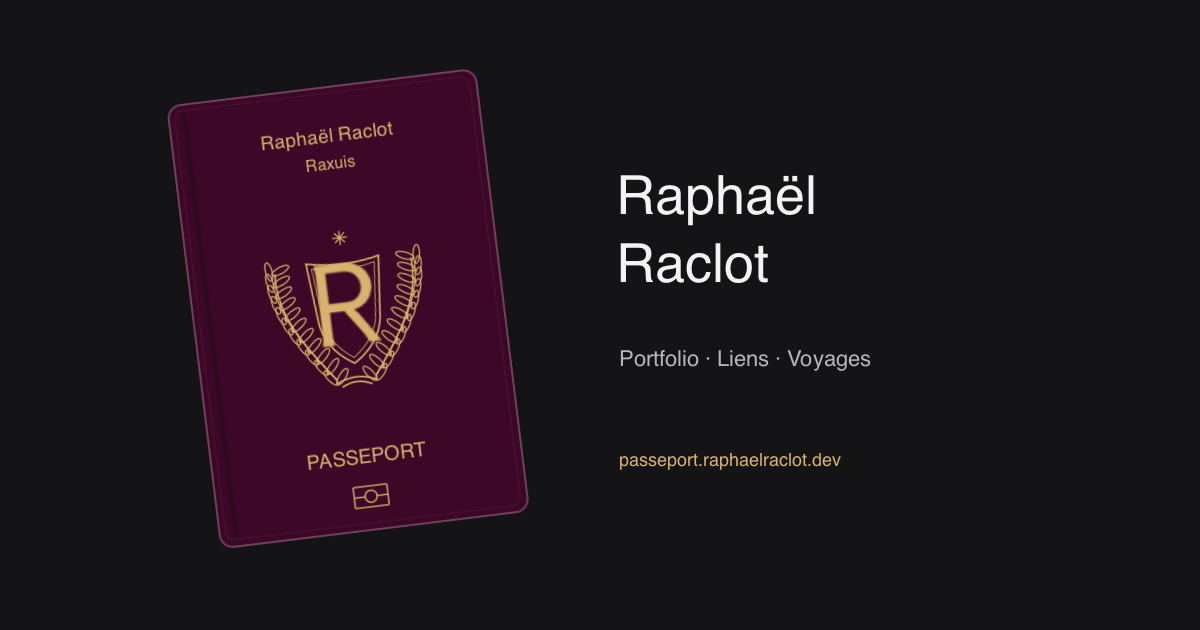
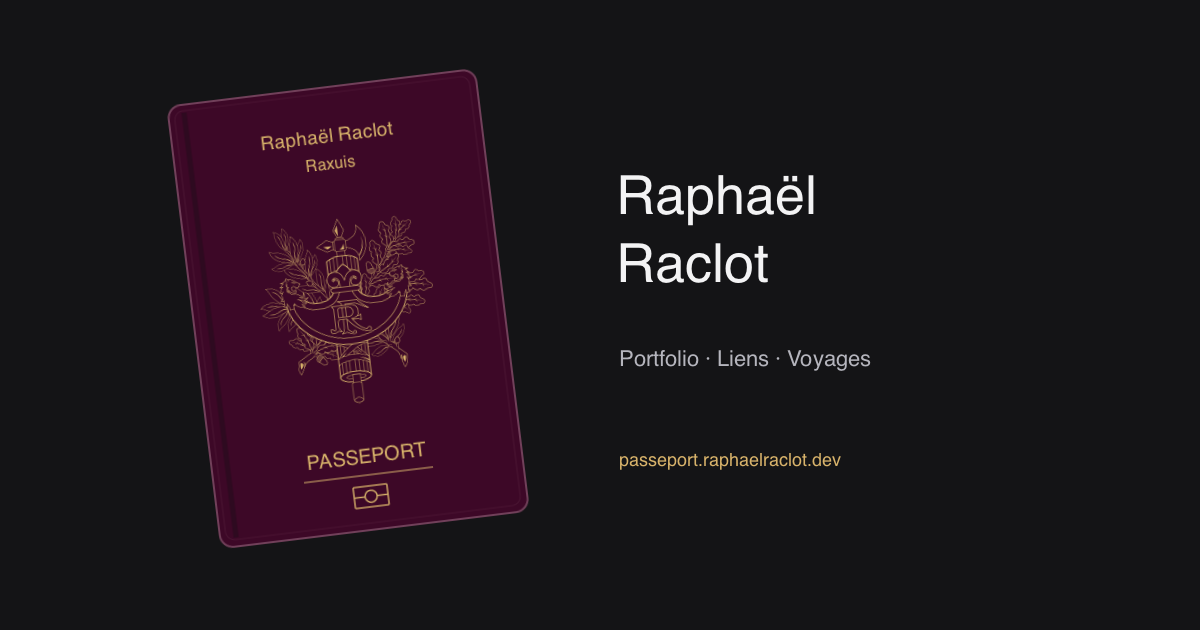
design: replace personal cover monogram with French passport emblem

Changed region(s): [[0.2158, 0.3317, 0.37, 0.6333], [0.2467, 0.754, 0.3083, 0.7841], [0.3083, 0.7238, 0.3392, 0.754]]

diff --git a/src/components/passport/passport-textures.ts b/src/components/passport/passport-textures.ts
@@ -388,7 +388,7 @@ export async function loadPassportTextures(
     c.fillStyle = i % 2 ? "#d6a8af0b" : "#08000a1c";
     c.fillRect(x, y, 1.5, 1.5);
   }
-  // A separate alpha mask puts all lettering and the personal crest in metallic foil.
+  // A separate alpha mask puts all lettering and the French-inspired vector emblem in metallic foil.
   const foil = canvas();
   text(
     foil.c,
@@ -401,7 +401,7 @@ export async function loadPassportTextures(
     "center",
   );
   text(foil.c, "Raxuis", W / 2, 250, 41, "#ffffff", "DM Sans", "center");
-  foil.c.drawImage(crest, 232, 424, 560, 560);
+  foil.c.drawImage(crest, 260, 435, 504, 536);
   text(
     foil.c,
     "PASSEPORT",
@@ -414,6 +414,11 @@ export async function loadPassportTextures(
     600,
   );
   foil.c.strokeStyle = "#ffffff";
+  foil.c.lineWidth = 3;
+  foil.c.beginPath();
+  foil.c.moveTo(W / 2 - 165, 1211);
+  foil.c.lineTo(W / 2 + 165, 1211);
+  foil.c.stroke();
   foil.c.lineWidth = 4;
   foil.c.beginPath();
   foil.c.roundRect(W / 2 - 43, 1246, 86, 52, 2);

diff --git a/README.md b/README.md
@@ -22,7 +22,7 @@ npm start
 
 ## Identité
 
-Le R d’origine est conservé dans `public/identity/raxuis-logo.png`. Le favicon SVG adapte exactement sa silhouette en dorure sur une couverture bordeaux. `npm run icons` régénère l’emblème personnel, puis génère le favicon ICO aux tailles 16, 32 et 48 pixels, l’icône Apple et un aperçu PNG.
+Le R d’origine est conservé dans `public/identity/raxuis-logo.png`. Le favicon SVG adapte exactement sa silhouette en dorure sur une couverture bordeaux. `npm run icons` régénère l’emblème de couverture, puis génère le favicon ICO aux tailles 16, 32 et 48 pixels, l’icône Apple et un aperçu PNG.
 
 Les polices DM Sans et Space Grotesk sont distribuées localement avec leurs licences dans `public/fonts`. Le texte, les destinations et la mesure des clics sont définis dans `src/components/passport/destinations.ts`. Les matières imprimées sont dans `passport-textures.ts`; la géométrie, les shaders et les animations sont dans `PassportScene.tsx`.
 
@@ -56,7 +56,7 @@ La page `/analytics` présente les sept derniers jours dans un registre HTML acc
 
 Adresse publique dédiée : https://passeport.raphaelraclot.dev. Le domaine reste géré chez Porkbun ; seul le CNAME `passeport` pointe vers le projet Vercel du passeport. Le domaine principal du portfolio conserve sa configuration.
 
-L’identité publique et les métadonnées sont dans `src/lib/site.ts`. `npm run social:generate` recrée l’image Open Graph et Twitter de 1200 × 630 dans `public/social/passport.png`, à partir du blason original et de la police locale. `npm run icons` produit le favicon à plusieurs tailles ; la version 16 pixels utilise un R simplifié, les grandes tailles conservent les détails du passeport.
+L’identité publique et les métadonnées sont dans `src/lib/site.ts`. `npm run social:generate` recrée l’image Open Graph et Twitter de 1200 × 630 dans `public/social/passport.png`, à partir de l’emblème vectoriel de couverture et de la police locale. `npm run icons` produit le favicon à plusieurs tailles ; la version 16 pixels utilise un R simplifié, les grandes tailles conservent les détails du passeport.
 
 ## Lecture et finition
 

diff --git a/public/identity/README.md b/public/identity/README.md
@@ -1,6 +1,6 @@
 # Identity and travel artwork
 
-`raxuis-logo.png` is the owner's supplied R logo, copied from the sibling modern-portfolio project. `passport-crest.svg` is the personal cover ornament built for this project.
+`raxuis-logo.png` is the owner's supplied R logo, copied from the sibling modern-portfolio project. `passport-crest.svg` is now a cropped monochrome vector adaptation of the French passport emblem, replacing the personal R ornament at the owner’s request. See [source and attribution](sources/ATTRIBUTION.md) for CC BY-SA 4.0 terms.
 
 `countries/` and `country-catalog.json` use public-domain Natural Earth 1:110m country outlines from https://github.com/nvkelso/natural-earth-vector/blob/master/geojson/ne_110m_admin_0_countries.geojson, prepared on 2026-11-12. Projection and blue stippling are authored for this personal passport; these are geographic data graphics, not scans of official documents.
 
@@ -11,4 +11,4 @@ The 177 prepared silhouettes are generated by `scripts/generate-travel-countries
 
 `country-iso2.json` maps visitor region codes to these same prepared silhouettes using Natural Earth ISO_A2_EH and ADM0_A3. `register-guilloche.svg` is authored mathematical security linework for the analytics paper, not a scan of an official document.
 
-`favicon-small.svg` retains the supplied R mark without miniature ornaments for 16px display. The larger icon keeps the passport details. `public/social/passport.png` is a native Sharp composition generated by `scripts/generate-social-image.mjs` from the original personal crest and self-hosted DM Sans. It contains the verified dedicated URL and existing identity only. Regenerate with `npm run social:generate`.
+`favicon-small.svg` retains the supplied R mark without miniature ornaments for 16px display. The larger icon keeps the passport details. `public/social/passport.png` is a native Sharp composition generated by `scripts/generate-social-image.mjs` from this French-inspired vector emblem and self-hosted DM Sans. It contains the verified dedicated URL and existing identity only. Regenerate with `npm run social:generate`.

diff --git a/public/identity/sources/ATTRIBUTION.md b/public/identity/sources/ATTRIBUTION.md
@@ -1,0 +1,9 @@
+# French passport emblem
+
+Source: [French Passport Cover.svg](https://commons.wikimedia.org/wiki/File:French_Passport_Cover.svg), by **RainbowSilver2ndBackup and Futurhit12**, with subsequent file revisions by Wikimedia Commons contributors. Retrieved 17 November 2026 from https://upload.wikimedia.org/wikipedia/commons/7/72/French_Passport_Cover.svg.
+
+License: [Creative Commons Attribution-ShareAlike 4.0 International](https://creativecommons.org/licenses/by-sa/4.0/).
+
+Adaptation for this project: extracted the emblem group, converted the original gold and burgundy shapes into a monochrome luminance mask, cropped the vector viewBox, reinforced the engraving by 0.35 source units for small display sizes and applied a metallic material in the scene. The original personal R crest is replaced on the cover. The header and favicon retain the owner's logo. No endorsement is implied.
+
+`french-emblem.svg`, its generated derivative `../passport-crest.svg` and the resulting social composition `../../social/passport.png` are distributed under **CC BY-SA 4.0**. This license applies to these artwork derivatives, not to unrelated application source code.

diff --git a/.impeccable/surfaces/app-page-tsx.md b/.impeccable/surfaces/app-page-tsx.md
@@ -28,3 +28,7 @@ Les couvertures suivent le geste et peuvent revenir à leur position initiale av
 ## Découverte initiale
 
 Une seule démonstration brève par geste : couverture légèrement soulevée, coin de page courbé, onde sur une ville réelle. Les indications textuelles sont contextualisées et mémorisées séparément. Le visiteur garde la main, les mouvements ne tournent aucune page et sont interrompus au toucher ou au clic. Les overlays et transitions suspendent les indices ; Reduce Motion conserve uniquement le texte.
+
+## Couverture du 17 novembre 2026
+
+À la demande de Raphaël, le grand R personnel sur la couverture est remplacé par une adaptation vectorielle de l’emblème du passeport français. La composition conserve son nom et le cuir bordeaux. Le mot PASSEPORT est souligné. Le header et le favicon gardent le logo personnel. Source et licence CC BY-SA 4.0 : public/identity/sources/ATTRIBUTION.md. L’aperçu de partage suit la nouvelle couverture.
